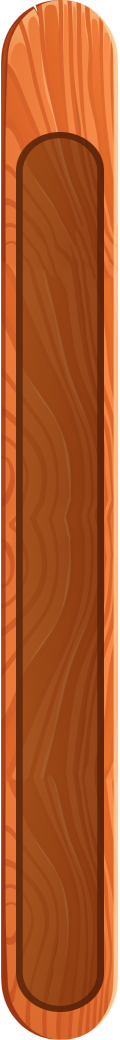
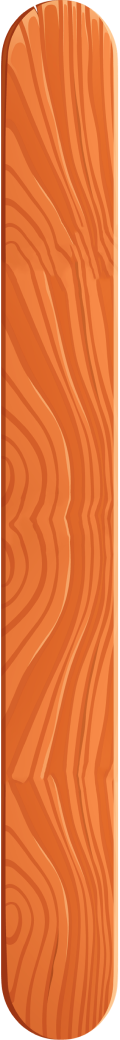
FINAL

diff --git a/index.html b/index.html
@@ -240,9 +240,84 @@
 												 alt="wood"
 												 class="main__bar-wood-bg main__bar--Left-wood-bg">
 
-										<div class="main__bar-wood-Scale" data-scale data-scale-progress="50">
-												<img src="components/main/img/blick.svg" alt="blick" class="main__bar-wood-Scale-Blick">
+										<!-- scale container -->
+										<div class="main__bar-wood-ScaleContainer">
+
+												<!-- scale item -->
+												<div class="main__bar-wood-ScaleBg">
+														<div class="main__bar-wood-Scale" data-scale data-scale-progress="50">
+																<img src="components/main/img/blick.svg" alt="blick" class="main__bar-wood-Scale-Blick">
+														</div>
+												</div>
+
+												<!-- scale item -->
+												<div class="main__bar-wood-ScaleBg">
+														<div class="main__bar-wood-Scale" data-scale data-scale-progress="25">
+																<img src="components/main/img/blick.svg" alt="blick" class="main__bar-wood-Scale-Blick">
+														</div>
+												</div>
+
+												<!-- scale item -->
+												<div class="main__bar-wood-ScaleBg">
+														<div class="main__bar-wood-Scale" data-scale data-scale-progress="33">
+																<img src="components/main/img/blick.svg" alt="blick" class="main__bar-wood-Scale-Blick">
+														</div>
+												</div>
+
+												<!-- scale item -->
+												<div class="main__bar-wood-ScaleBg">
+														<div class="main__bar-wood-Scale" data-scale data-scale-progress="25">
+																<img src="components/main/img/blick.svg" alt="blick" class="main__bar-wood-Scale-Blick">
+														</div>
+												</div>
+
+												<!-- scale item -->
+												<div class="main__bar-wood-ScaleBg">
+														<div class="main__bar-wood-Scale" data-scale data-scale-progress="12">
+																<img src="components/main/img/blick.svg" alt="blick" class="main__bar-wood-Scale-Blick">
+														</div>
+												</div>
+
+												<!-- scale item -->
+												<div class="main__bar-wood-ScaleBg">
+														<div class="main__bar-wood-Scale" data-scale data-scale-progress="12">
+																<img src="components/main/img/blick.svg" alt="blick" class="main__bar-wood-Scale-Blick">
+														</div>
+												</div>
+
+												<!-- scale item -->
+												<div class="main__bar-wood-ScaleBg">
+														<div class="main__bar-wood-Scale" data-scale data-scale-progress="12">
+																<img src="components/main/img/blick.svg" alt="blick" class="main__bar-wood-Scale-Blick">
+														</div>
+												</div>
+
+
+												<!-- scale item -->
+												<div class="main__bar-wood-ScaleBg">
+														<div class="main__bar-wood-Scale" data-scale data-scale-progress="12">
+																<img src="components/main/img/blick.svg" alt="blick" class="main__bar-wood-Scale-Blick">
+														</div>
+												</div>
+
+
+												<!-- scale item -->
+												<div class="main__bar-wood-ScaleBg">
+														<div class="main__bar-wood-Scale" data-scale data-scale-progress="12">
+																<img src="components/main/img/blick.svg" alt="blick" class="main__bar-wood-Scale-Blick">
+														</div>
+												</div>
+
+
+												<!-- scale item -->
+												<div class="main__bar-wood-ScaleBg">
+														<div class="main__bar-wood-Scale" data-scale data-scale-progress="12">
+																<img src="components/main/img/blick.svg" alt="blick" class="main__bar-wood-Scale-Blick">
+														</div>
+												</div>
+
 										</div>
+
 								</div>
 
 								<!-- icon -->
@@ -265,7 +340,7 @@
 						<div class="main__bar main__bar--Right">
 
 								<!-- action -->
-								<a data-modal-button="add-balance-moloko" class="roundLink main__bar-action">
+								<a data-modal-button="add-balance" class="roundLink main__bar-action">
 										<svg class="roundLink__svg" width="24" height="24" viewBox="0 0 24 24" fill="none" xmlns="http://www.w3.org/2000/svg">
 												<g filter="url(#filter0_i_20_8844)">
 														<circle cx="12" cy="12" r="12" fill="url(#paint0_linear_20_8844)"/>
@@ -313,26 +388,101 @@
 								</a>
 
 								<div class="main__bar-wood main__bar--Right-wood">
-										<img src="components/main/img/wood-left.png"
+										<img src="components/main/img/wood-right.png"
 												 alt="wood"
 												 class="main__bar-wood-bg main__bar--Right-wood-bg">
 
-										<div class="main__bar-wood-Scale main__bar-wood-Scale--Right" data-scale data-scale-progress="78">
-												<img src="components/main/img/blick.svg" alt="blick" class="main__bar-wood-Scale-Blick">
+										<!-- scale container -->
+										<div class="main__bar-wood-ScaleContainer main__bar-wood-ScaleContainer--Right">
+
+												<!-- scale item -->
+												<div class="main__bar-wood-ScaleBg">
+														<div class="main__bar-wood-Scale" data-scale data-scale-progress="50">
+																<img src="components/main/img/blick.svg" alt="blick" class="main__bar-wood-Scale-Blick">
+														</div>
+												</div>
+
+												<!-- scale item -->
+												<div class="main__bar-wood-ScaleBg">
+														<div class="main__bar-wood-Scale" data-scale data-scale-progress="25">
+																<img src="components/main/img/blick.svg" alt="blick" class="main__bar-wood-Scale-Blick">
+														</div>
+												</div>
+
+												<!-- scale item -->
+												<div class="main__bar-wood-ScaleBg">
+														<div class="main__bar-wood-Scale" data-scale data-scale-progress="33">
+																<img src="components/main/img/blick.svg" alt="blick" class="main__bar-wood-Scale-Blick">
+														</div>
+												</div>
+
+												<!-- scale item -->
+												<div class="main__bar-wood-ScaleBg">
+														<div class="main__bar-wood-Scale" data-scale data-scale-progress="25">
+																<img src="components/main/img/blick.svg" alt="blick" class="main__bar-wood-Scale-Blick">
+														</div>
+												</div>
+
+												<!-- scale item -->
+												<div class="main__bar-wood-ScaleBg">
+														<div class="main__bar-wood-Scale" data-scale data-scale-progress="12">
+																<img src="components/main/img/blick.svg" alt="blick" class="main__bar-wood-Scale-Blick">
+														</div>
+												</div>
+
+												<!-- scale item -->
+												<div class="main__bar-wood-ScaleBg">
+														<div class="main__bar-wood-Scale" data-scale data-scale-progress="12">
+																<img src="components/main/img/blick.svg" alt="blick" class="main__bar-wood-Scale-Blick">
+														</div>
+												</div>
+
+												<!-- scale item -->
+												<div class="main__bar-wood-ScaleBg">
+														<div class="main__bar-wood-Scale" data-scale data-scale-progress="12">
+																<img src="components/main/img/blick.svg" alt="blick" class="main__bar-wood-Scale-Blick">
+														</div>
+												</div>
+
+
+												<!-- scale item -->
+												<div class="main__bar-wood-ScaleBg">
+														<div class="main__bar-wood-Scale" data-scale data-scale-progress="12">
+																<img src="components/main/img/blick.svg" alt="blick" class="main__bar-wood-Scale-Blick">
+														</div>
+												</div>
+
+
+												<!-- scale item -->
+												<div class="main__bar-wood-ScaleBg">
+														<div class="main__bar-wood-Scale" data-scale data-scale-progress="12">
+																<img src="components/main/img/blick.svg" alt="blick" class="main__bar-wood-Scale-Blick">
+														</div>
+												</div>
+
+
+												<!-- scale item -->
+												<div class="main__bar-wood-ScaleBg">
+														<div class="main__bar-wood-Scale" data-scale data-scale-progress="12">
+																<img src="components/main/img/blick.svg" alt="blick" class="main__bar-wood-Scale-Blick">
+														</div>
+												</div>
+
 										</div>
+
 								</div>
 
 								<!-- icon -->
-								<a data-modal-button="drink" class="main__bar-wood-btn">
-									<img src="components/main/img/drink-icon.png"
-										 alt="food"
-										 class="main__bar-wood-btn-icon">
+								<a data-modal-button="market" class="main__bar-wood-btn">
+										<img src="components/main/img/food-icon.png"
+												 alt="food"
+												 class="main__bar-wood-btn-icon">
 								</a>
 
 								<!-- text -->
 								<a class="main__bar-btn">
 										<span class="main__bar-btn-text">
-												Жажда
+												Сытость
 										</span>
 										<img src="components/main/img/text-bg.svg" alt="bg" class="main__bar-btn-bg">
 								</a>

diff --git a/assets/js/index.js b/assets/js/index.js
@@ -1,20 +1,5 @@
 document.addEventListener('DOMContentLoaded', () => {
-  const scales = document.querySelectorAll('[data-scale]')
-  scales.forEach(scale => {
-
-    getScaleValue(scale)
-
-    const observer = new MutationObserver(function(mutations) {
-      mutations.forEach(function(mutation) {
-        if (mutation.attributeName === 'data-scale-progress') {
-          getScaleValue(scale);
-        }
-      });
-    });
-
-    observer.observe(scale, { attributes: true });
-  })
-
+  // calculate document height
   const documentHeight = () => {
     const doc = document.documentElement
     doc.style.setProperty('--doc-height', `${window.innerHeight}px`)
@@ -22,12 +7,73 @@ document.addEventListener('DOMContentLoaded', () => {
   window.addEventListener('resize', documentHeight)
   documentHeight()
 
+
+  const scaleContainer = document.querySelectorAll('.main__bar-wood-ScaleContainer')
+
+  scaleContainer.forEach(container => {
+    const scales = document.querySelectorAll('[data-scale]')
+    handleScaleContainerRender(container)
+
+    const childrenCountCallback = function(mutationsList, observer) {
+      for(const mutation of mutationsList) {
+        if (mutation.type === 'childList') {
+          handleScaleContainerRender(container)
+        }
+      }
+    };
+
+    const observer = new MutationObserver(childrenCountCallback);
+    const config = { childList: true };
+    observer.observe(container, config);
+
+    scales.forEach((scale, index) => {
+      getScaleValue(scale)
+
+      const observer = new MutationObserver(function(mutations) {
+        mutations.forEach(function(mutation) {
+          if (mutation.attributeName === 'data-scale-progress') {
+            getScaleValue(scale);
+          }
+        });
+      });
+
+      observer.observe(scale, { attributes: true });
+    })
+
+  })
+
+
+
   function getScaleValue(scale) {
     const value = scale.getAttribute('data-scale-progress')
-    const result = (value / 100) * 210
-    scale.setAttribute('style', `height: ${result}px`)
+    scale.setAttribute('style', `height: ${value}px`)
   }
 
+  function handleScaleContainerRender(container) {
+    const count = container.childElementCount
+    const items = []
+    container.childNodes.forEach(item => {
+      if (item.tagName === 'DIV') {
+        items.push(item)
+      }
+    })
+    items.forEach((item, i) => {
+      const isSecondColumnItem = (i + 1) - 5 > 0
+      if (isSecondColumnItem) {
+         item.setAttribute('style', `grid-row: ${5 + (5 - i)}`)
+      } else {
+        item.setAttribute('style', `grid-row: ${5 - i}`)
+      }
+    })
+
+    if (count > 5) {
+      container.classList.add('main__bar-wood-ScaleContainer--TwoColumns')
+    }
+
+    if (count <= 5) {
+      container.classList.remove('main__bar-wood-ScaleContainer--TwoColumns')
+    }
+  }
 })
 
 

diff --git a/assets/css/style.css b/assets/css/style.css
@@ -165,27 +165,87 @@ a {
   width: 100%;
 }
 
-.main__bar-wood-Scale {
-  max-height: 209px;
-  width: 18px;
-  background: linear-gradient(to left, #FFDA18, #FE8A1E);
+.main__bar-wood-ScaleContainer {
   position: absolute;
-  bottom: 16px;
+  bottom: 27px;
   left: 50%;
   transform: translateX(-50%);
-  border-top-left-radius: 9px;
-  border-top-right-radius: 9px;
+  max-height: 201px;
+  display: grid;
+  height: 100%;
+  width: 100%;
+  max-width: 22px;
+
+  grid-template-columns: 1fr;
+  grid-auto-rows: minmax(38px, 1fr);
+  gap: 1px 2px;
+  align-content: end;
+}
+
+.main__bar-wood-ScaleContainer--TwoColumns {
+  grid-template-columns: 1fr 1fr;
+  grid-auto-rows: 0.2fr;
+  grid-auto-flow: column;
+}
+
+.main__bar-wood-ScaleContainer--TwoColumns .main__bar-wood-ScaleBg:nth-child(n+1):nth-child(-n+5) {
+  grid-column: 1;
+}
+
+.main__bar-wood-ScaleContainer--TwoColumns .main__bar-wood-ScaleBg:nth-child(n+6):nth-child(-n+10) {
+  grid-column: 2;
+}
+
+/* RIGHT */
+.main__bar-wood-ScaleContainer--Right.main__bar-wood-ScaleContainer--TwoColumns .main__bar-wood-ScaleBg:nth-child(n+1):nth-child(-n+5) {
+  grid-column: 2;
+}
+
+.main__bar-wood-ScaleContainer--Right.main__bar-wood-ScaleContainer--TwoColumns .main__bar-wood-ScaleBg:nth-child(n+6):nth-child(-n+10) {
+  grid-column: 1;
+}
+
+
+.main__bar-wood-ScaleContainer--TwoColumns .main__bar-wood-ScaleBg {
+  border-width: 1px;
+}
+
+.main__bar-wood-ScaleBg {
+  background-color: rgba(94, 29, 0, 0.5);
+  border: 1.5px solid #582006;
+  border-radius: 10px;
+  height: 100%;
+  width: 100%;
+  display: flex;
+  flex-direction: column;
+  justify-content: flex-end;
+  overflow: hidden;
+}
+
+.main__bar-wood-Scale {
+  position: relative;
+  width: 100%;
+  height: 100%;
+  background: linear-gradient(to left, #FFDA18, #FE8A1E);
+  border-radius: 9px;
   box-shadow: inset 0px 0px 0px 3px rgb(255 255 255 / 15%);
 }
 
-.main__bar-wood-Scale--Right {
+.main__bar--Right-wood .main__bar-wood-Scale {
   background: linear-gradient(to left, #2780D3, #41E2F8);
 }
 
 .main__bar-wood-Scale-Blick {
+  display: none;
   position: absolute;
   right: 3px;
   top: 3px;
+}
+
+.main__bar-wood-Scale-Blick--Small {
+  width: 3px;
+  top: 2px;
+  right: 3px;
 }
 
 .main__bar-btn {
